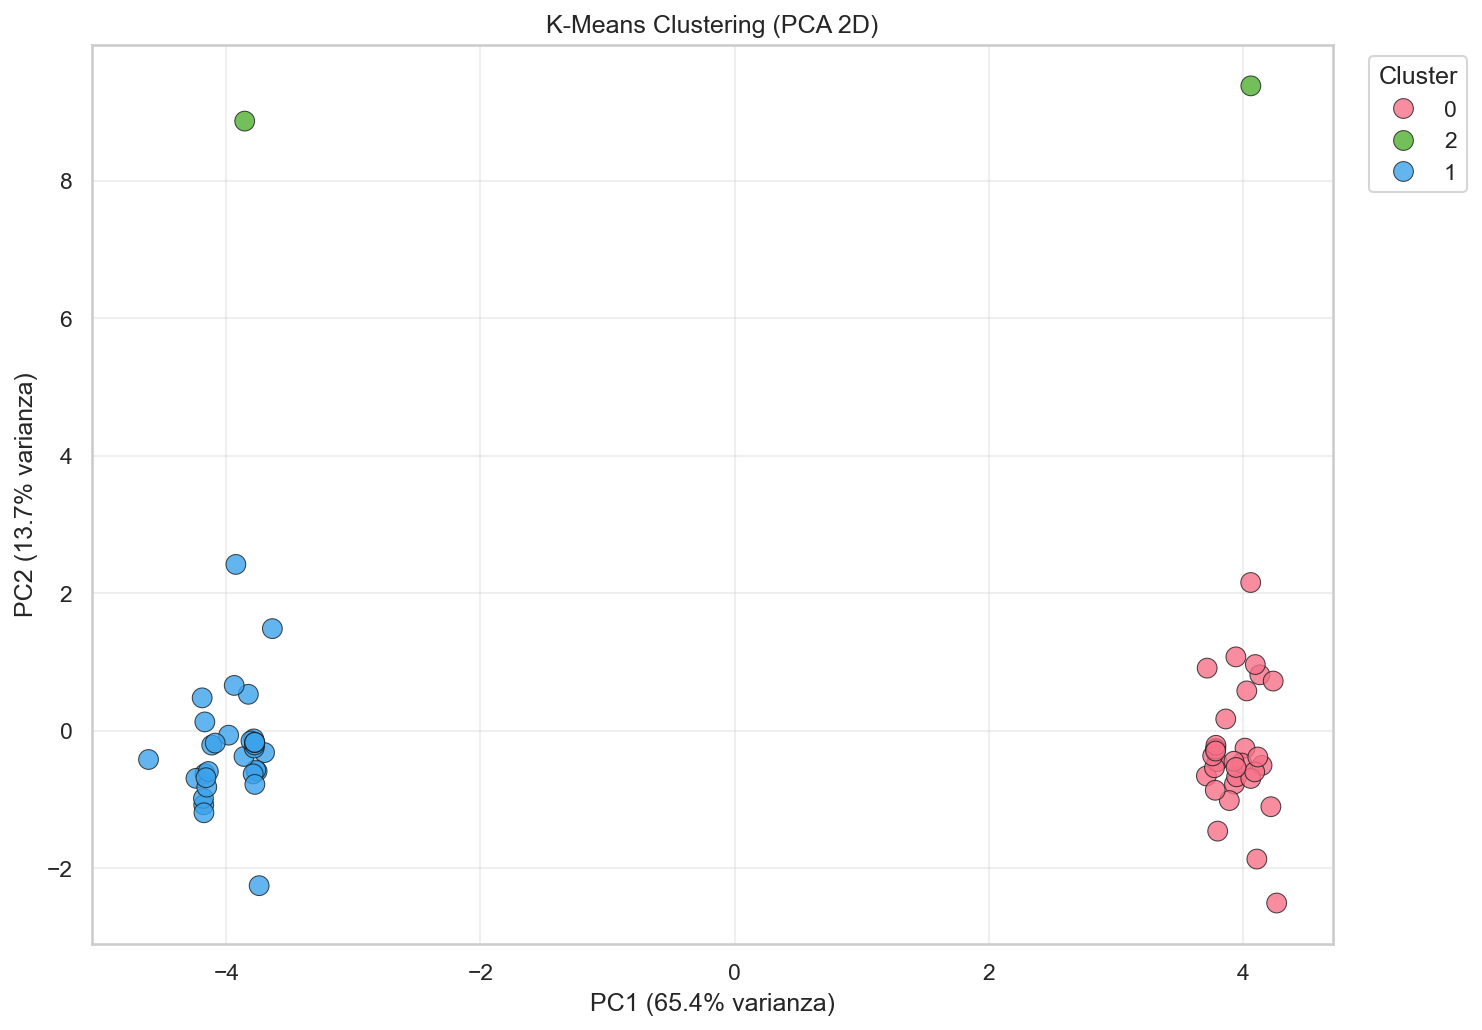
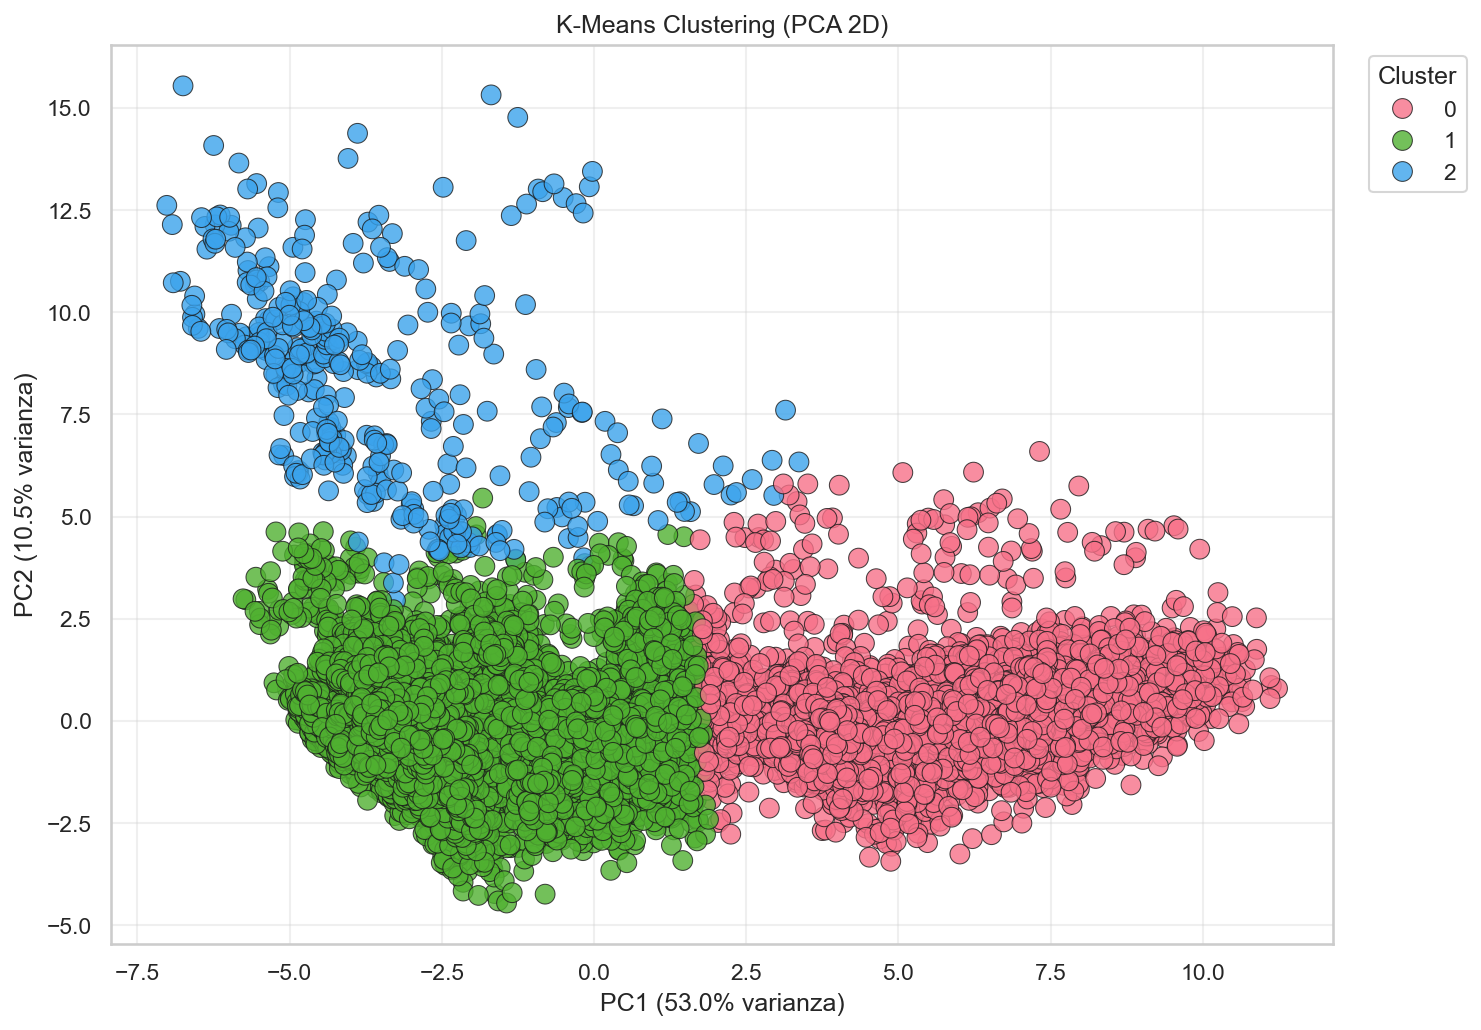
unsupervised with new data

diff --git a/unsupervised/main.py b/unsupervised/main.py
@@ -40,7 +40,8 @@ def main():
     print("Objetivo: explorar patrones en los indicadores que puedan apoyar la predicción de la tasa de deserción estudiantil.")
     print("="*70)
 
-    X, y, loader = load_and_prepare()
+    data_path = Path(r"c:\Users\Usuario\Desktop\EAFIT\Semestre 6\Fundamentos de Aprendizaje Automático\-6HoursOfSleep\data_simulada\processed\data_simulado_1980_2026.csv")
+    X, y, loader = load_and_prepare(str(data_path))
     df_base = loader.df_clean.copy()
 
     X_scaled = scale_features(X)
@@ -129,6 +130,34 @@ def main():
     print("   • Gráficos: unsupervised/reports/eda_figures/unsupervised_*.png")
     print("   • Asignaciones: unsupervised/reports/cluster_assignments_*.csv")
     print("   • Validación: unsupervised/reports/unsupervised_validation_summary.csv")
+    print("\n[6/5] Guardando resultados en JSON para el dashboard")
+    docs_path = Path(__file__).parent / "docs"
+    docs_path.mkdir(parents=True, exist_ok=True)
+    
+    import json
+    
+    def replace_nan(obj):
+        if isinstance(obj, float) and np.isnan(obj):
+            return None
+        elif isinstance(obj, dict):
+            return {k: replace_nan(v) for k, v in obj.items()}
+        elif isinstance(obj, list):
+            return [replace_nan(i) for i in obj]
+        return obj
+
+    dbscan_list = dbscan_results.to_dict(orient="records") if dbscan_results is not None else []
+    
+    results_json = {
+        "kmeans_results": kmeans_results.to_dict(orient="records"),
+        "dbscan_results": dbscan_list,
+        "agg_metrics": agg_metrics,
+        "validation": df_validation.to_dict(orient="records"),
+    }
+    
+    with open(docs_path / "unsupervised_results.json", "w", encoding="utf-8") as f:
+        json.dump(replace_nan(results_json), f, indent=4, ensure_ascii=False)
+    print(f"   [OK] JSON guardado en: {docs_path / 'unsupervised_results.json'}")
+
     print("\n" + "="*70 + "\n")
 
     return {